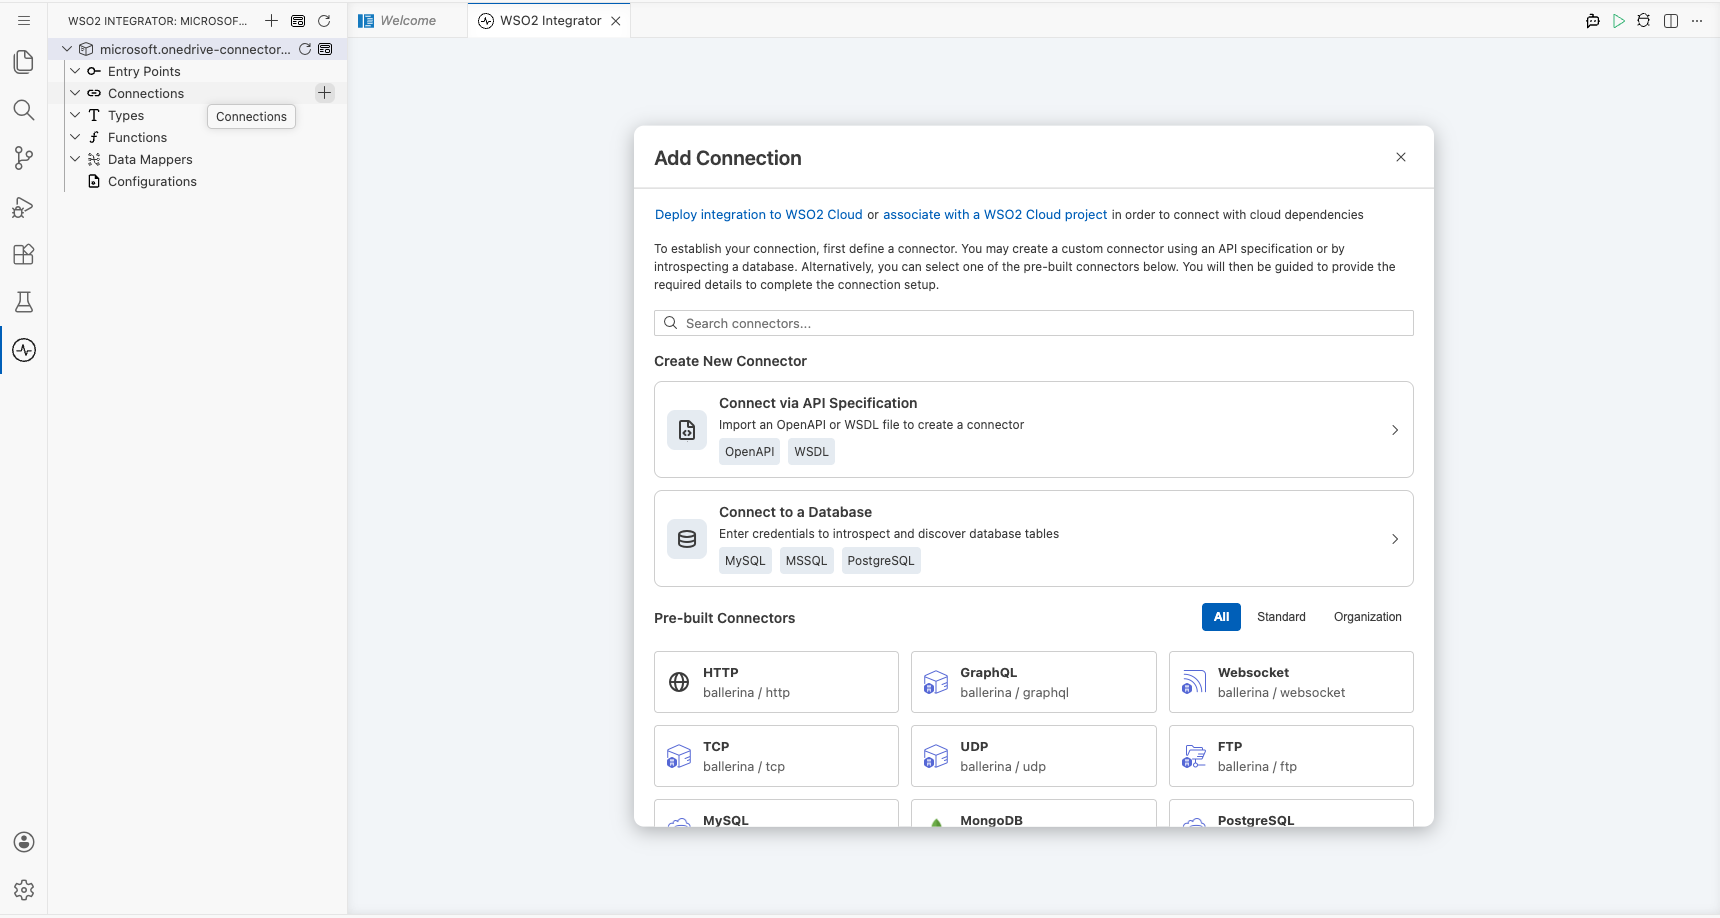
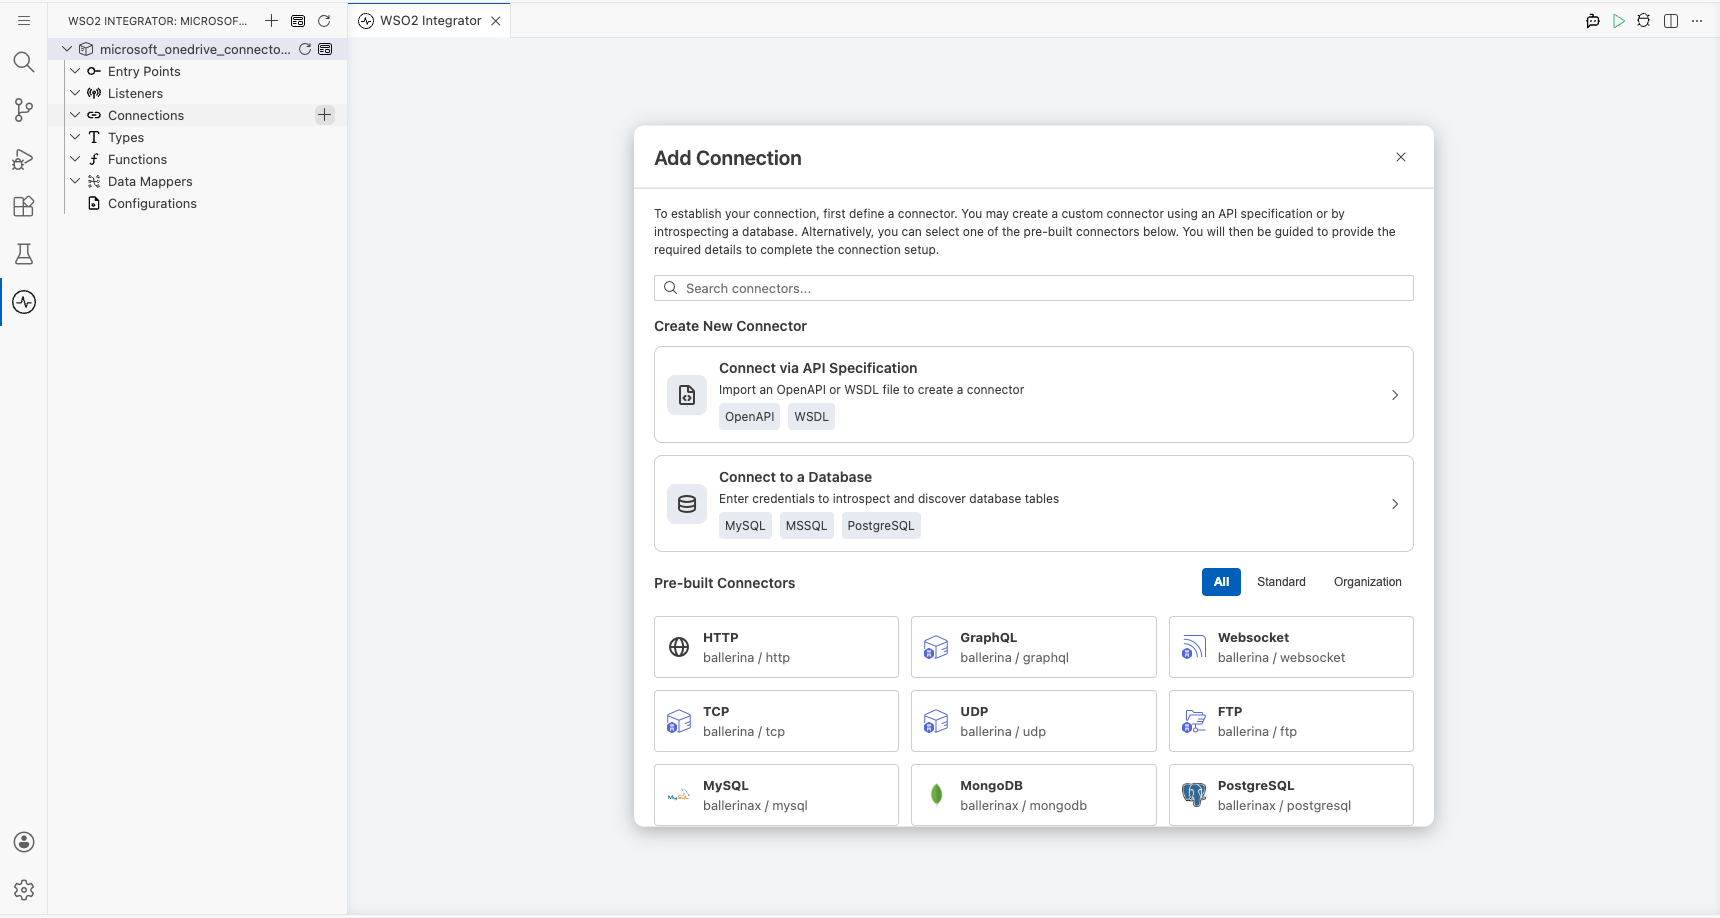
docs: add Microsoft.Onedrive connector example guide

diff --git a/en/docs/connectors/catalog/productivity-collaboration/microsoft.onedrive/example.md b/en/docs/connectors/catalog/productivity-collaboration/microsoft.onedrive/example.md
@@ -2,106 +2,92 @@
 
 ## What you'll build
 
-Build an integration that connects to Microsoft OneDrive and creates a new folder inside an existing drive item. The integration uses a configurable bearer token for authentication and invokes the `createChildren` operation to create a child folder in a specified OneDrive drive item.
+Build an integration in WSO2 Integrator that uses the **Microsoft OneDrive** connector to list all available drives. The integration uses an **Automation** entry point to invoke the `listDrive` operation and log the results.
 
 **Operations used:**
-- **createChildren** : Creates a new child item (folder) inside a specified OneDrive drive item
+- **listDrive** : Retrieves all available drives from Microsoft OneDrive
 
 ## Architecture
 
 ```mermaid
 flowchart LR
-    A((User)) --> B[createChildren Operation]
-    B --> C[OneDrive Connector]
+    A((User)) --> B[listDrive Operation]
+    B --> C[Microsoft OneDrive Connector]
     C --> D((Microsoft OneDrive))
 ```
 
 ## Prerequisites
 
-- A Microsoft OneDrive account with an active bearer token (OAuth 2.0 access token)
+- A Microsoft OneDrive account with a valid access token
 
-## Setting up the OneDrive integration
+## Setting up the Microsoft OneDrive integration
 
 > **New to WSO2 Integrator?** Follow the [Create a New Integration](../../../../develop/create-integrations/create-new-integration.md) guide to set up your integration first, then return here to add the connector.
 
-## Adding the OneDrive connector
+## Adding the Microsoft OneDrive connector
 
-### Step 1: Open the Add Connection palette
+### Step 1: Add the Microsoft OneDrive connection
 
-Select **+ Add Connection** in the integration design canvas to open the **Add Connection** palette, which shows a grid of pre-built connectors.
+Select **+** in the **Connections** section to open the Add Connection panel.
 
-![OneDrive connector palette open with search field before any selection](/img/connectors/catalog/productivity-collaboration/microsoft.onedrive/microsoft_onedrive_screenshot_01_palette.png)
+![Microsoft OneDrive connector palette open with search field before any selection](/img/connectors/catalog/productivity-collaboration/microsoft.onedrive/microsoft_onedrive_screenshot_01_palette.png)
 
-### Step 2: Search for and select the OneDrive connector
+## Configuring the Microsoft OneDrive connection
 
-1. Enter `onedrive` in the search box at the top of the palette.
-2. Select the **Onedrive** connector card to open the **Configure Onedrive** form.
+### Step 2: Fill in the connection parameters
 
-## Configuring the OneDrive connection
+Enter the connection details, binding each field to a configurable variable:
 
-### Step 3: Fill in the connection parameters
+- **connectionName** : Enter `onedriveClient` as the connection name
+- **config** : Switch to **Expression** mode and enter `{auth: {token: oneDriveToken}}`, referencing the `oneDriveToken` configurable variable that holds your access token at runtime
 
-Fill in the connection parameters, binding each field to a configurable variable:
+![Microsoft OneDrive connection form fully filled with all parameters before saving](/img/connectors/catalog/productivity-collaboration/microsoft.onedrive/microsoft_onedrive_screenshot_02_connection_form.png)
 
-- **Config** : Authentication and HTTP client settings for the connector — bind to a new configurable variable `oneDriveToken` of type `string` using the expression `{auth: {token: oneDriveToken}}`
-- **Connection Name** : Logical name used to reference the connection in your integration — set to `onedriveClient`
+### Step 3: Save the connection
 
-![OneDrive connection form fully filled with all parameters before saving](/img/connectors/catalog/productivity-collaboration/microsoft.onedrive/microsoft_onedrive_screenshot_02_connection_form.png)
+Select **Save** to create the connection. The `onedriveClient` entry now appears under the **Connections** section.
 
-### Step 4: Save the connection
+![Microsoft OneDrive Connections panel showing onedriveClient entry after saving](/img/connectors/catalog/productivity-collaboration/microsoft.onedrive/microsoft_onedrive_screenshot_03_connections_list.png)
 
-Select **Save Connection** to persist the connection. The **Connections** section in the left sidebar now lists `onedriveClient` and the design canvas shows the connection node.
+### Step 4: Set actual values for your configurables
 
-![OneDrive Connections panel showing onedriveClient entry after saving](/img/connectors/catalog/productivity-collaboration/microsoft.onedrive/microsoft_onedrive_screenshot_03_canvas_after_save.png)
+In the left panel, select **Configurations**. Set a value for each configurable listed below:
 
-### Step 5: Set actual values for your configurables
+- **oneDriveToken** (string) : Your Microsoft OneDrive access token
 
-1. In the left panel, select **Configurations**.
-2. Set a value for each configurable listed below.
+## Configuring the Microsoft OneDrive listDrive operation
 
-- **oneDriveToken** (string) : Your Microsoft Graph bearer token with scope `https://graph.microsoft.com/Files.ReadWrite`
+### Step 5: Add an Automation entry point
 
-## Configuring the OneDrive createChildren operation
+Select **Add Artifact** and choose **Automation** as the entry point type. Enter `main` as the function name, then select **Create** to generate the automation entry point.
 
-### Step 6: Add an Automation entry point
+### Step 6: Select and configure the listDrive operation
 
-1. Select **+ Add Artifact** on the design canvas toolbar.
-2. Select **Automation** from the artifacts panel.
-3. Select **Create** to accept the default settings.
+Expand the **onedriveClient** connection node on the canvas to view available operations, then select **List Drive** to add it to the flow.
 
-An `Automation` entry point named `main` is added under **Entry Points** in the sidebar. The flow canvas opens showing a **Start** node and an **Error Handler** node.
+![Microsoft OneDrive connection node expanded showing all available operations before selection](/img/connectors/catalog/productivity-collaboration/microsoft.onedrive/microsoft_onedrive_screenshot_04_operations.png)
 
-### Step 7: Select and configure the createChildren operation
+Configure the operation parameters:
 
-1. In the automation flow canvas, select the **+** button between the **Start** node and the **Error Handler** node.
-2. Under **Connections**, select **onedriveClient** to expand the list of available OneDrive operations.
+- **resultVariable** : Enter `result` as the variable name to store the response
+- **resultType** : Set to `onedrive:DriveCollectionResponse`
 
-![OneDrive connection node expanded showing all available operations before selection](/img/connectors/catalog/productivity-collaboration/microsoft.onedrive/microsoft_onedrive_screenshot_04_operations_panel.png)
+![Microsoft OneDrive listDrive operation configuration filled with all values](/img/connectors/catalog/productivity-collaboration/microsoft.onedrive/microsoft_onedrive_screenshot_05_operation_form.png)
 
-3. Select **Create Children** to open the **onedriveClient → createChildren** configuration form.
-4. Fill in the operation fields:
+Select **Save** to add the operation to the flow.
 
-- **Drive Id** : Unique identifier of the OneDrive drive
-- **Drive Item Id** : Unique identifier of the parent drive item (folder)
-- **Payload** : The new item to create — set to `{name: "Projects", folder: {}}` to create a folder
-- **Result** : Name of the variable to store the returned `DriveItem`
-
-![OneDrive createChildren operation configuration filled with all values](/img/connectors/catalog/productivity-collaboration/microsoft.onedrive/microsoft_onedrive_screenshot_05_operation_fields.png)
-
-Select **Save**. The operation node is added to the automation flow canvas between **Start** and **Error Handler**.
-
-![Completed OneDrive automation flow](/img/connectors/catalog/productivity-collaboration/microsoft.onedrive/microsoft_onedrive_screenshot_06_completed_flow.png)
+![Completed Microsoft OneDrive automation flow](/img/connectors/catalog/productivity-collaboration/microsoft.onedrive/microsoft_onedrive_screenshot_06_completed_flow.png)
 
 ## Try it yourself
 
 Try this sample in WSO2 Integration Platform.
 
-[![Deploy to Devant](https://openindevant.choreoapps.dev/images/DeployDevant-White.svg)](https://console.devant.dev/new?gh=wso2/integration-samples/tree/main/connectors/microsoft.onedrive_connector_sample)
+[![Deploy to Devant](https://openindevant.choreoapps.dev/images/DeployDevant-White.svg)](https://console.devant.dev/new?gh=wso2/integration-samples/tree/main/connectors/microsoft_onedrive_connector_sample)
 
-[View source on GitHub](https://github.com/wso2/integration-samples/tree/main/connectors/microsoft.onedrive_connector_sample)
+[View source on GitHub](https://github.com/wso2/integration-samples/tree/main/connectors/microsoft_onedrive_connector_sample)
 
 ## More code examples
 
-The `microsoft.onedrive` connector provides practical examples illustrating usage in various scenarios. Explore these [examples](https://github.com/ballerina-platform/module-ballerinax-microsoft.onedrive/tree/master/examples/), covering the following use cases:
+The `microsoft.onedrive` connector provides practical examples illustrating usage in various scenarios. Explore these [examples](https://github.com/module-ballerinax-microsoft.onedrive/tree/master/examples/), covering the following use cases:
 
 1. [Upload File](https://github.com/ballerina-platform/module-ballerinax-microsoft.onedrive/tree/master/examples/upload-file) - This example demonstrates how to use the Ballerina Microsoft OneDrive connector to upload a file from your local system to your OneDrive account.
